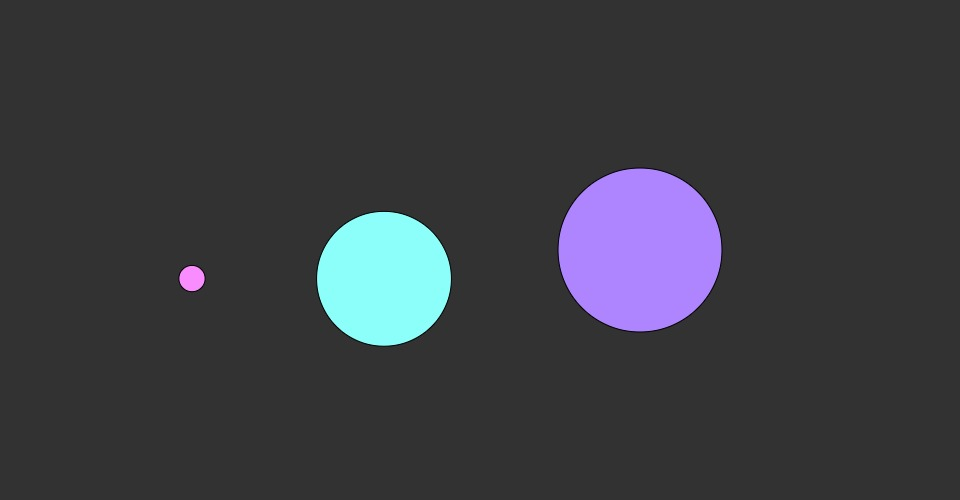
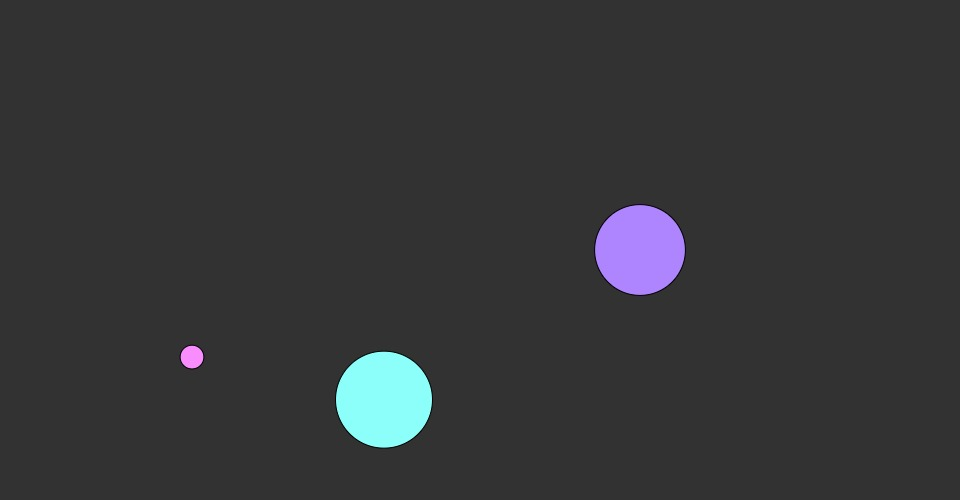
Updated index and readme

diff --git a/index.html b/index.html
@@ -22,22 +22,22 @@
     </style>
 
   <meta
-    name="Digital Clock by UWCC"
-    content="Code driven digital clock."
+    name="Bouncy Clock by Tom White"
+    content="Image a clock made from bouncing and growing and shrinking."
   />
-  <meta name="description" content="Code driven digital clock" />
-  <meta property="og:title" content="Digital Clock by UWCC" />
+  <meta name="description" content="Image a clock made from bouncing and growing and shrinking." />
+  <meta property="og:title" content="Bouncy Clock by Tom White" />
   <meta property="og:type" content="website" />
-  <meta property="og:url" content="https://uwcc.github.io/23.MDDN242_Time-based_Media/" />
-  <meta property="og:image" content="https://uwcc.github.io/23.MDDN242_Time-based_Media/preview.jpg" />
+  <meta property="og:url" content="https://23-2-dsdn242.github.io/mddn242-time-based-media-dribnet/" />
+  <meta property="og:image" content="https://23-2-dsdn242.github.io/mddn242-time-based-media-dribnet/preview.jpg" />
   <meta property="og:image:width" content="960" />
   <meta property="og:image:height" content="500" />
-  <meta property="og:description" content="Code driven digital clock" />
+  <meta property="og:description" content="Image a clock made from bouncing and growing and shrinking." />
   <meta name="twitter:card" content="summary_large_image" />
   <meta name="twitter:creator" content="@uwcc" />
-  <meta name="twitter:title" content="Digital Clock by UWCC" />
-  <meta name="twitter:description" content="Code driven digital clock" />
-  <meta name="twitter:image" content="https://uwcc.github.io/23.MDDN242_Time-based_Media/preview.jpg" />
+  <meta name="twitter:title" content="Bouncy Clock by Tom White" />
+  <meta name="twitter:description" content="Image a clock made from bouncing and growing and shrinking." />
+  <meta name="twitter:image" content="https://23-2-dsdn242.github.io/mddn242-time-based-media-dribnet/preview.jpg" />
 
 </head>
 <body style="background-color:white">

diff --git a/clock.js b/clock.js
@@ -18,16 +18,36 @@ function draw_clock(obj) {
   let millis = obj.millis;
   let alarm = obj.seconds_until_alarm;
 
-  background(50); //  beige
+  let background_color = 50;
+
+  if(alarm > 0 && alarm < 5) {
+    background_color = map(alarm, 5, 0, 50, 240);
+  }
+  else if(alarm == 0) {
+    if(millis < 500) {
+      background_color = map(millis, 0, 500, 0, 200);
+    }
+    else {
+      background_color = map(millis, 500, 1000, 200, 0);
+    }
+  }
+  // background_color = 200;
+
+  background(background_color);
   fill(200); // dark grey
   textSize(40);
   textAlign(CENTER, CENTER);
 
-  let bounce1 = map(obj.millis, 0, 999, 0, TWO_PI);
+  let max_val = TWO_PI;
+  if(alarm == 0) {
+    max_val = 3 * TWO_PI;
+  }
+
+  let bounce1 = map(obj.millis, 0, 999, 0, max_val);
   let phase1 = sin(bounce1);
   let y_bounce1 = map(phase1, -1, 1, -75, 75);
 
-  let bounce2 = map((obj.millis+100), 0, 999, 0, TWO_PI);
+  let bounce2 = map((obj.millis+100), 0, 999, 0, max_val);
   let phase2 = sin(bounce2);
   let y_bounce2 = map(phase2, -1, 1, -75, 75);
 

diff --git a/README.md b/README.md
@@ -1,7 +1,6 @@
-[![Review Assignment Due Date](https://classroom.github.com/assets/deadline-readme-button-24ddc0f5d75046c5622901739e7c5dd533143b0c8e959d652212380cedb1ea36.svg)](https://classroom.github.com/a/JAZAP9dv)
-[![Open in Visual Studio Code](https://classroom.github.com/assets/open-in-vscode-718a45dd9cf7e7f842a935f5ebbe5719a5e09af4491e668f4dbf3b35d5cca122.svg)](https://classroom.github.com/online_ide?assignment_repo_id=11434422&assignment_repo_type=AssignmentRepo)
-## MDDN 242 Project 1: Time-based Media  
+# MDDN 242 Project 1: Time-based Media  
 
-### THIS IS YOUR README
+## Bouncy Clock by Tom White
 
-Update this file as you go along to record your progress.
+This is where the final information goes about your process, etc.
+
